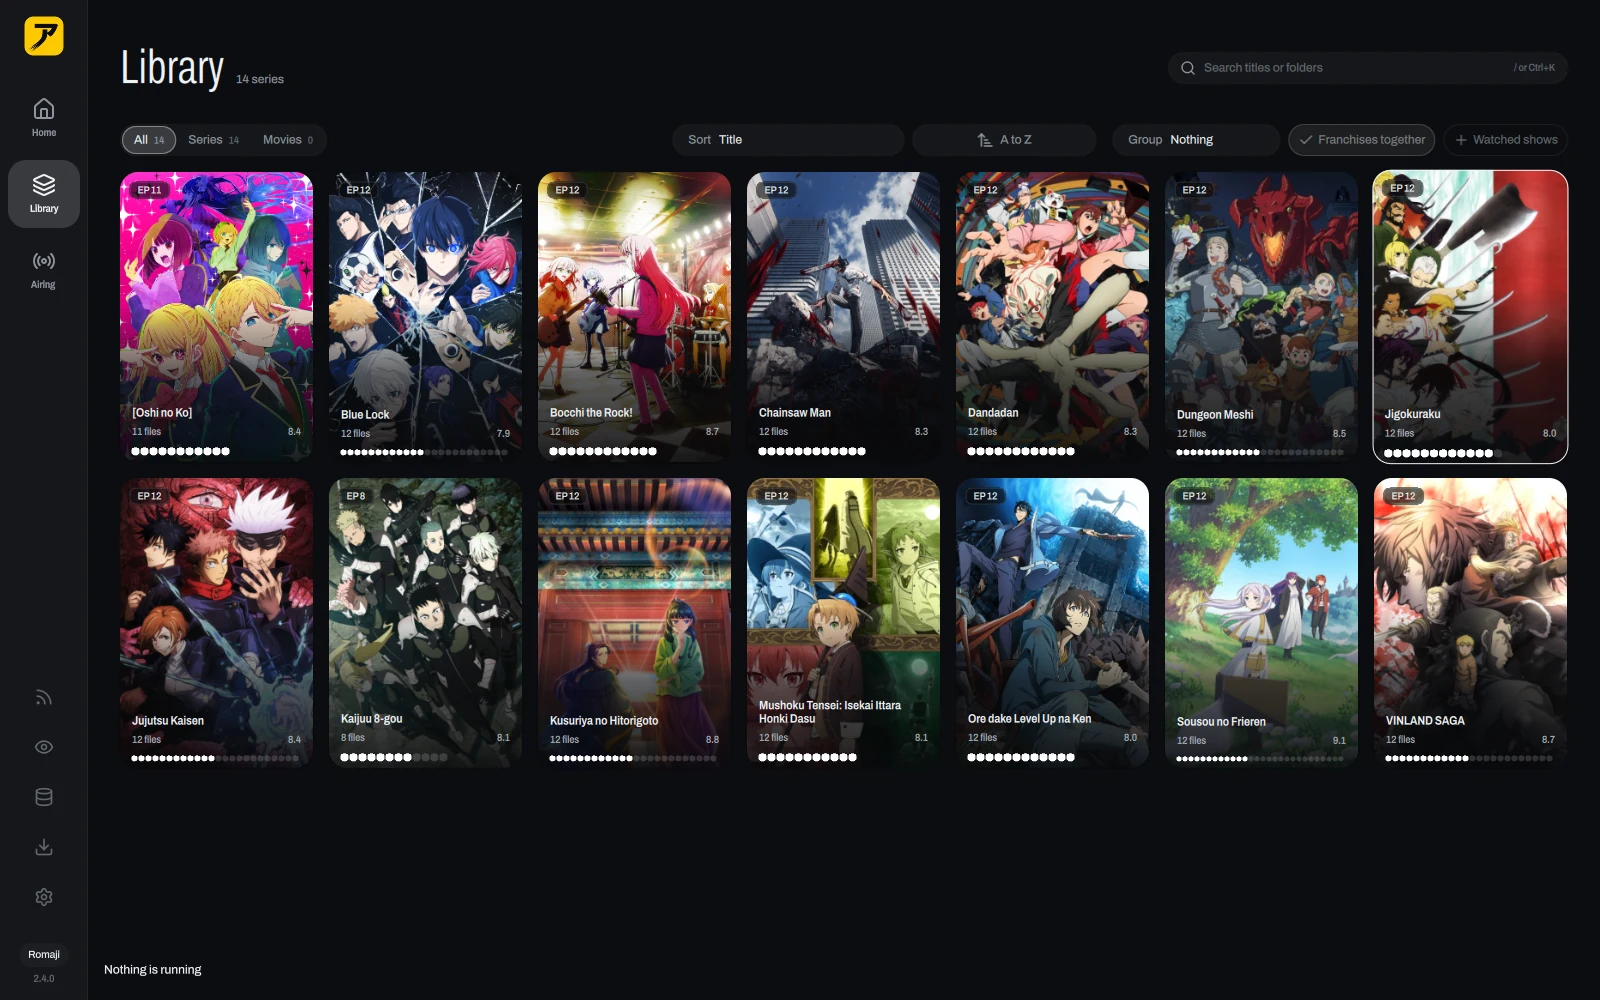
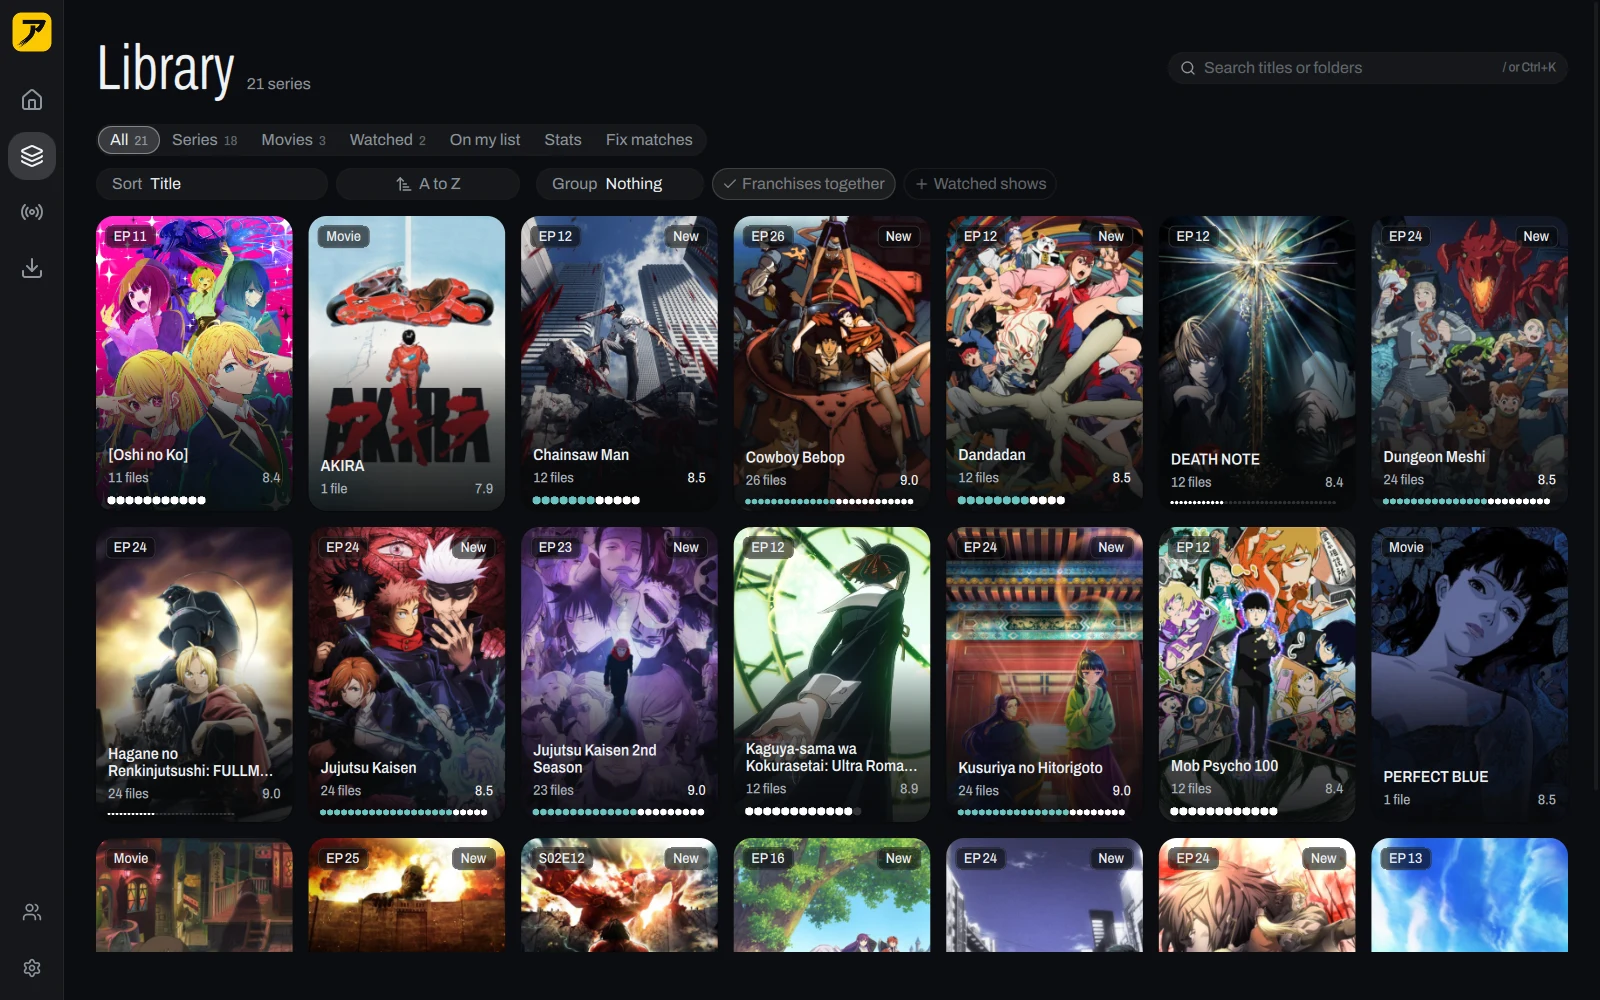
docs(readme): rewrite copy, fix wordmarks, and refresh screenshots for 2.5 (#1387)

diff --git a/README.md b/README.md
@@ -8,17 +8,17 @@
 <br>
 <br>
 
-**Your anime folder, as a library you can watch and track.**
+**A local anime library, player, and tracker for desktop and mobile.**
 
-**[anibeam.app](https://anibeam.app)**
+**[anibeam.app](https://anibeam.app)** · **[Wiki](https://anibeam.app/wiki/)** · **[What's new](https://anibeam.app/whats-new/)** · **[Watch together](https://rooms.anibeam.app/)**
 
 <br>
 
 [![stable](https://img.shields.io/github/v/release/marcusbandit/Anibeam?filter=v*&style=for-the-badge&label=stable&labelColor=0D0E11&color=FDC901)](https://github.com/marcusbandit/Anibeam/releases/latest)
 [![nightly](https://img.shields.io/github/v/release/marcusbandit/Anibeam?include_prereleases&filter=*nightly*&style=for-the-badge&label=nightly&labelColor=0D0E11&color=46E0C4)](https://github.com/marcusbandit/Anibeam/releases)
-[![android](https://img.shields.io/github/v/release/marcusbandit/Anibeam?include_prereleases&filter=android-v*&style=for-the-badge&label=android&logo=android&logoColor=8ADFB5&labelColor=0D0E11&color=8ADFB5)](https://github.com/marcusbandit/Anibeam/releases?q=android&expanded=true)
+[![android](https://img.shields.io/github/v/release/marcusbandit/Anibeam?include_prereleases&filter=android-v*&style=for-the-badge&label=phone&logo=android&logoColor=8ADFB5&labelColor=0D0E11&color=8ADFB5)](https://github.com/marcusbandit/Anibeam/releases?q=android&expanded=true)
 <br>
-[![platforms](https://img.shields.io/badge/linux_·_windows_·_macos-7CBCF5?style=for-the-badge&label=runs_on&labelColor=0D0E11)](#install)
+[![platforms](https://img.shields.io/badge/linux_·_windows_·_macos_·_android_·_ios-7CBCF5?style=for-the-badge&label=runs_on&labelColor=0D0E11)](#install)
 [![downloads](https://img.shields.io/github/downloads/marcusbandit/Anibeam/total?style=for-the-badge&labelColor=0D0E11&color=C0ABF0)](https://github.com/marcusbandit/Anibeam/releases)
 [![license](https://img.shields.io/github/license/marcusbandit/Anibeam?style=for-the-badge&labelColor=0D0E11&color=A3AEC5)](LICENSE)
 [![ko-fi](https://img.shields.io/badge/ko--fi-buy_me_a_coffee-F0A772?style=for-the-badge&logo=kofi&logoColor=F0A772&labelColor=0D0E11)](https://ko-fi.com/marcusbandit)
@@ -28,94 +28,120 @@
 <br>
 
 <div align="center">
-<img src="docs/readme/home.webp" alt="Anibeam's Home page with recent and unstarted shows as poster cards" width="100%">
+<img src="docs/readme/home.webp" alt="Anibeam Home page with a resume hero banner, Continue shelf, and Recently downloaded shows" width="100%">
 </div>
 
 <br>
 
-Point Anibeam at the folder your anime lives in. It finds every show, matches it on
-AniList, fetches the posters and airing dates, and plays the episodes right in the window.
-Watch most of an episode and it lands on your AniList or MyAnimeList. New episodes can
-download by themselves as they come out.
+Point Anibeam at your anime folder to organize, watch, and track your collection in one app.
+It matches shows on AniList (with TVmaze as a fallback), fetches posters, episode lists, and
+airing schedules, plays episodes with a built-in mpv player, and syncs your progress to
+AniList and MyAnimeList.
 
-It runs on Linux, Windows and Apple silicon Macs, with a companion app for Android. One
-install brings everything it needs: the player, the feed search and a torrent client.
+No media server, account, or telemetry required. Desktop builds for Linux, Windows, and
+Apple silicon Macs bundle the player and a built-in qBittorrent client for optional automatic
+downloads. A standalone phone app is available for Android and iPhone (sideloaded).
 
-## What's in it
+## Features
 
-- A library that builds itself. Drop files in the folder and they show up, matched, with
-  posters, synopses and what airs next.
-- A player in the window, built on mpv. It remembers where you stopped, offers the next
-  episode, and every key is one `?` away.
-- AniList and MyAnimeList sync. Progress goes both ways, so the cards show where you are.
-- Airing: this season's shows, what is out now, and when the next episode lands.
-- Downloads with subscriptions. Subscribe to a release once and every new episode arrives
-  on its own.
-- A franchise graph that shows how sequels, prequels and side stories connect.
-- Thirty-five themes, Catppuccin, Gruvbox, Tokyo Night and Nord among them.
-- Updates from inside the app, on a Stable or a Nightly track, with a What's new card.
-- A phone app that keeps its own library and can stream yours from home over Tailscale.
+- **Automatic library and matching:** Scans your folders, watches for new files, matches shows
+  on AniList and TVmaze, fetches posters, IMDb scores, and airing times, and groups franchises
+  together with a Related section on each show page.
+- **Built-in mpv player and TV casting:** Remembers resume points, skips intros and outros
+  (via AniSkip and chapter markers), supports custom subtitle styling and audio/subtitle
+  delay, and casts to Chromecast and DLNA TVs.
+- **Tracking, stats, and recommendations:** Two-way sync with AniList and MyAnimeList
+  (progress, scores, list status, dates, rewatches, and notes), or local-only tracking without
+  an account. Includes watching stats, year recap, personalized recommendations on Home, and
+  Discord Rich Presence.
+- **Watch together:** Start a synced room from any episode and invite up to 10 friends with a
+  six-letter code, a `rooms.anibeam.app` link, a QR code, or Discord. Everyone plays their own
+  copy in sync, with opening-based offset alignment and one-click episode fetching for friends
+  who don't have the file yet.
+- **Airing schedule and downloads:** Browse current and past seasons, export an iCal airing
+  schedule, search releases across signed source lists you add (RSS, Torznab/Prowlarr/Jackett,
+  and JSON), subscribe to airing shows, and use rolling downloads to keep long shows a few
+  episodes ahead while optionally cleaning up watched files.
+- **Themes and languages:** 35 built-in themes (including Catppuccin, Gruvbox, Tokyo Night,
+  and Nord), dark/light/system mode, custom accent and text size, and 13 languages.
+- **Phone app (Android and iPhone):** Runs standalone with its own library, built-in torrent
+  engine, and libmpv playback, or streams from your computer over Tailscale with automatic
+  transcoding and per-person progress.
 
 <table>
   <tr>
-    <td width="50%"><img src="docs/readme/series.webp" alt="A series page with its banner, episodes and progress"></td>
-    <td width="50%"><img src="docs/readme/library.webp" alt="The Library grid with every show as a poster"></td>
+    <td width="50%"><img src="docs/readme/series.webp" alt="A series page showing banner art, episode progress, episode list, synopsis, and characters"></td>
+    <td width="50%"><img src="docs/readme/library.webp" alt="The Library grid with poster cards, episode progress cubes, and library tabs"></td>
   </tr>
   <tr>
-    <td align="center"><sub>A series page</sub></td>
-    <td align="center"><sub>The whole library</sub></td>
+    <td align="center"><sub>Series page</sub></td>
+    <td align="center"><sub>Library</sub></td>
+  </tr>
+  <tr>
+    <td width="50%"><img src="docs/readme/airing.webp" alt="The Airing now page with episodes out today and the seasonal poster grid"></td>
+    <td width="50%"><img src="docs/readme/stats.webp" alt="The Stats page with hours watched, monthly breakdown, top genres, studios, and seasons"></td>
+  </tr>
+  <tr>
+    <td align="center"><sub>Airing now</sub></td>
+    <td align="center"><sub>Stats</sub></td>
   </tr>
 </table>
 
 ## Install
 
-Grab the newest version from **[Releases](https://github.com/marcusbandit/Anibeam/releases/latest)**.
+Download from **[anibeam.app/download](https://anibeam.app/download/)** or **[GitHub Releases](https://github.com/marcusbandit/Anibeam/releases/latest)**.
 
-| Platform | Get it | Notes |
+| Platform | Install | Notes |
 | --- | --- | --- |
-| Any Linux, one line | `curl -fsSL https://anibeam.app/install.sh \| sh` | Picks the right way for your system below: the AUR on Arch, the apt or dnf repo on Ubuntu, Debian and Fedora, the AppImage anywhere else. |
-| Arch Linux | `yay -S anibeam-bin` | The release build, installed in seconds. `yay -S anibeam` compiles it instead. Either pulls in anirss and qbittorrent-nox. |
-| Ubuntu, Debian | `sudo curl -fsSLo /etc/apt/sources.list.d/anibeam.sources https://anibeam.app/apt/anibeam.sources`<br>`sudo apt update && sudo apt install anibeam` | Ubuntu 24.04, Debian 13 and later. Updates come with `apt upgrade`. |
-| Fedora | `sudo dnf config-manager addrepo --from-repofile=https://anibeam.app/rpm/anibeam.repo`<br>`sudo dnf install anibeam` | Fedora 41 and later. Updates come with `dnf upgrade`. |
-| Any Linux | `Anibeam-<version>-x86_64.AppImage` | glibc 2.39 or newer: Ubuntu 24.04, Debian 13, Fedora 40 and later. |
-| Windows 10 and 11 | `Anibeam-<version>-windows-x64-setup.exe` | Installs for you alone, no admin prompt. A portable `.zip` sits beside it. |
-| macOS 15 and later | `brew install --cask marcusbandit/anibeam/anibeam` | Apple silicon. Or download the `.dmg` and drag it into Applications. |
-| Android | `Anibeam-<version>.apk` | From the newest `android` release. Sideload it. |
-| iPhone | Add the Anibeam source to AltStore, SideStore or LiveContainer, below | An unsigned IPA for sideloading: the app you add it to signs it. |
+| Linux & macOS (quick install) | `curl -fsSL https://anibeam.app/install.sh \| sh` | Uses AUR on Arch, apt on Ubuntu/Debian, dnf on Fedora, AppImage elsewhere, and Homebrew or `.dmg` on Apple silicon Macs. Prefix `sh` with `ANIBEAM_CHANNEL=nightly` for the latest nightly. |
+| Arch Linux | `yay -S anibeam-bin` | Prebuilt AUR package (`yay -S anibeam` compiles from source). |
+| Ubuntu / Debian | `sudo curl -fsSLo /etc/apt/sources.list.d/anibeam.sources https://anibeam.app/apt/anibeam.sources`<br>`sudo apt update && sudo apt install anibeam` | Ubuntu 24.04+, Debian 13+. Updates with `apt upgrade`. |
+| Fedora | `sudo dnf config-manager addrepo --from-repofile=https://anibeam.app/rpm/anibeam.repo`<br>`sudo dnf install anibeam` | Fedora 41+. Updates with `dnf upgrade`. |
+| Other Linux | `Anibeam-<version>-x86_64.AppImage` | Requires glibc 2.39+ (Ubuntu 24.04+, Debian 13+, Fedora 40+). Standalone `.deb` and `.rpm` packages are also attached to Releases. |
+| Windows 10 / 11 | `Anibeam-<version>-windows-x64-setup.exe` | Per-user installer (no admin prompt). A portable `.zip` is also available. |
+| macOS 15+ | `brew tap marcusbandit/anibeam https://github.com/marcusbandit/Anibeam`<br>`brew install --cask marcusbandit/anibeam/anibeam` | Apple silicon only. You can also download the `.dmg` and drag it into Applications. |
+| Android 8+ | `Anibeam-<version>.apk` | Sideload from the latest `android` release. |
+| iPhone (iOS 17+) | Add the Anibeam source in AltStore, SideStore, or LiveContainer (links below) | Unsigned IPA for sideloading; the sideloading app signs it. |
 
-**iPhone** (unsigned, for sideloading). Pick the app you sideload with and add the Anibeam source: Anibeam and Anibeam Nightly then sit in its library, can be installed side by side, and the app offers each new build as an update. Nightly is the newest build from main.
-
-[Add the Anibeam source to AltStore](https://anibeam.app/install/?to=altstore&source=1) · [SideStore](https://anibeam.app/install/?to=sidestore&source=1) · [LiveContainer](https://anibeam.app/install/?to=livecontainer&source=1)
-
-To install one build without a source, once, in [AltStore](https://anibeam.app/install/?to=altstore&channel=stable), [SideStore](https://anibeam.app/install/?to=sidestore&channel=stable) or [LiveContainer](https://anibeam.app/install/?to=livecontainer&channel=stable) (nightly: [AltStore](https://anibeam.app/install/?to=altstore&channel=nightly) · [SideStore](https://anibeam.app/install/?to=sidestore&channel=nightly) · [LiveContainer](https://anibeam.app/install/?to=livecontainer&channel=nightly)). A channel with no IPA yet says so on that page.
+**iPhone sideloading:** Add the Anibeam source to get both Anibeam and Anibeam Nightly side by side with automatic updates:
+[AltStore](https://anibeam.app/install/?to=altstore&source=1) · [SideStore](https://anibeam.app/install/?to=sidestore&source=1) · [LiveContainer](https://anibeam.app/install/?to=livecontainer&source=1)
 
 <details>
-<summary><b>Mac</b>: Homebrew needs the tap first, and macOS asks once</summary>
+<summary><b>iPhone</b>: install a single IPA without adding the source</summary>
 
 <br>
+
+- Stable: [AltStore](https://anibeam.app/install/?to=altstore&channel=stable) · [SideStore](https://anibeam.app/install/?to=sidestore&channel=stable) · [LiveContainer](https://anibeam.app/install/?to=livecontainer&channel=stable)
+- Nightly: [AltStore](https://anibeam.app/install/?to=altstore&channel=nightly) · [SideStore](https://anibeam.app/install/?to=sidestore&channel=nightly) · [LiveContainer](https://anibeam.app/install/?to=livecontainer&channel=nightly)
+
+If a channel has no IPA yet, the install page will say so.
+
+</details>
+
+<details>
+<summary><b>macOS</b>: opening an unnotarized build for the first time</summary>
+
+<br>
+
+The Mac build is not notarized, so macOS blocks the first launch. Open **System Settings > Privacy & Security**, scroll to the Anibeam notice, and click **Open Anyway**, or run:
 
 ```bash
-brew tap marcusbandit/anibeam https://github.com/marcusbandit/Anibeam
-brew install --cask marcusbandit/anibeam/anibeam
+xattr -dr com.apple.quarantine /Applications/Anibeam.app
 ```
-
-The build is not notarized, so macOS stops the first launch. Go to System Settings >
-Privacy & Security, scroll to the Anibeam line and click Open Anyway. From a terminal,
-`xattr -dr com.apple.quarantine /Applications/Anibeam.app` does the same.
 
 </details>
 
 <details>
-<summary><b>Windows</b>: SmartScreen warns about the unsigned installer</summary>
+<summary><b>Windows</b>: SmartScreen warning on the unsigned installer</summary>
 
 <br>
 
-If Windows says it protected your PC, click More info, then Run anyway.
+If Windows Defender SmartScreen prompts you, click **More info**, then **Run anyway**.
 
 </details>
 
 <details>
-<summary><b>AppImage</b>: make it executable</summary>
+<summary><b>AppImage</b>: making it executable and FUSE notes</summary>
 
 <br>
 
@@ -124,104 +150,88 @@ chmod +x ./*-x86_64.AppImage
 ./*-x86_64.AppImage
 ```
 
-If it mentions FUSE, install `libfuse2` (`libfuse2t64` on Ubuntu 24.04), or run it with
-`--appimage-extract-and-run`.
+If it complains about FUSE, install `libfuse2` (`libfuse2t64` on Ubuntu 24.04) or launch with `--appimage-extract-and-run`.
 
 </details>
 
-After that, the app updates itself. Settings > About picks Stable or Nightly.
+AppImage, Windows, and macOS builds update themselves in-app (switch between Stable and Nightly in **Settings > About**). AUR, apt, and dnf installs update through your system package manager.
 
-## First steps
+## Getting started
 
-1. **Add your library.** Click Add a folder on Home and pick your anime folder. One folder
-   per show works best: `Anime/Sousou no Frieren/Frieren - 01.mkv`.
-2. **Connect a tracker** (optional). Settings > Library > Trackers > Connect, then approve
-   Anibeam in the browser.
-3. **Watch.** Click a show, then an episode. Space plays and pauses.
-4. **Download new episodes** (optional). Anibeam ships with no sources. Add an endpoint
-   repo in Settings > Downloads > Endpoint repos, install the sources you want, then
-   search a show in Downloads and click Subscribe.
+On first launch, Anibeam walks you through a short setup (every step is optional, and you can re-run it anytime under **Settings > About > Run setup again**):
 
-A show Anibeam could not match says "Needs a match". Open it, click Find a match and pick
-the right one.
+1. **Add your library folder:** Pick the parent folder that holds your shows. One folder per show works best (`Anime/Sousou no Frieren/Frieren - 01.mkv`), and movies go in a `Movies` folder. Manage folders anytime in **Settings > Library**.
+2. **Connect a tracker (optional):** Go to **Settings > Accounts** to sign in to AniList or MyAnimeList in your browser.
+3. **Watch:** Click any show, then an episode. Press `?` in the player to see all keyboard shortcuts.
+4. **Set up downloads (optional):** Anibeam ships with no download sources. Paste a signed source list URL in **Settings > Downloads > Source lists** (or directly on the **Downloads** page) to enable its sources, then click **Get episodes** on any show or search in **Downloads** to download or subscribe.
+
+If a show isn't recognized or matched wrong, open it and click **Fixes > Match** (or review unmatched shows in **Library > Fix matches**). Misread episode files can be corrected under **Fixes > Files**.
 
 <details>
 <summary><b>More on downloads</b></summary>
 
 <br>
 
-Anibeam starts its own anirss, the tool that searches the release feeds. If a qBittorrent of
-yours already runs with its Web UI on, Anibeam uses it. If not, it sets up its own the first
-time you open Downloads, and that one keeps running after you close the app so
-subscriptions keep downloading.
+Anibeam runs its own built-in search and subscription engine and bundles a headless qBittorrent client. The built-in client starts automatically when needed and stays running after you close Anibeam so subscriptions keep downloading.
 
-Episodes land in `~/Downloads/Anime` unless you pick another folder. Add that folder to your
-library so they show up there.
+By default, the built-in client saves episodes straight into your library folder (one folder per show, movies in `Movies`), so finished downloads show up in your library automatically. You can pick a different folder in **Settings > Downloads > Save to**.
 
-To use your own qBittorrent, turn on its Web UI (Preferences > Web UI, set a username and
-password), then in Settings > Downloads > Torrent client choose Mine, fill in the address and
-login, and Save.
+To use your own qBittorrent instance (local, remote, or seedbox), enable its Web UI in qBittorrent (**Tools > Options > Web UI**), then go to **Settings > Downloads > Torrent client**, set **Which client** to **My own**, enter your address and login, and click **Save and test**. Make sure its download directory is added under **Settings > Library**.
+
+See the [Downloads](https://anibeam.app/wiki/downloads/) and [Sources](https://anibeam.app/wiki/sources/) wiki pages for details on source lists and rolling downloads.
 
 </details>
 
-## The phone app
+## Phone app and Tailscale streaming
 
-The Android app keeps a library of its own and tracks to the same AniList or MyAnimeList
-account. It can also show and play your computer's library from anywhere: turn on Settings >
-Library > Phone app > Share over Tailscale on the computer, with
-[Tailscale](https://tailscale.com) signed in on both. Only devices on your tailnet can reach
-it. [apps/phone](apps/phone/README.md) has the details.
+The phone app for Android and iPhone works standalone with its own local library, built-in torrent engine, and libmpv playback, syncing to the same AniList or MyAnimeList account.
 
-## When something is off
+It can also browse and stream your computer's library from anywhere over [Tailscale](https://tailscale.com) with automatic transcoding and per-person progress: sign in to Tailscale on both devices, then turn on **Settings > Accounts > Phone app > Share over Tailscale** on your computer. Only devices on your tailnet can connect. To keep sharing when the desktop window is closed, run `anibeam serve` (or enable the `anibeam-host` systemd user service on Linux). See [apps/phone/README.md](apps/phone/README.md) for full details.
+
+## Troubleshooting
 
 <details>
-<summary><b>Downloads says qBittorrent did not answer</b></summary>
+<summary><b>qBittorrent won't connect</b></summary>
 
 <br>
 
-Open Settings > Downloads > Torrent client and press Test; the State line says what went
-wrong. Choosing Pick for me and saving makes Anibeam look again on the next connect.
+Open **Settings > Downloads > Torrent client**, click **Test**, and check **Details** for the exact error. If you want Anibeam to manage qBittorrent automatically, switch **Which client** to **Built-in** (or **Pick for me**) and save.
 
 </details>
 
 <details>
-<summary><b>Sign-in stays on "Finish in your browser"</b></summary>
+<summary><b>Tracker sign-in stays on "Finish in your browser"</b></summary>
 
 <br>
 
-Approve Anibeam in the browser tab it opened. If that tab is gone, click Open the sign-in
-page again.
+Approve Anibeam in the browser tab it opened. If you closed that tab, click **Open the sign-in page again**.
 
 </details>
 
 <details>
-<summary><b>Where Anibeam keeps its data</b></summary>
+<summary><b>Where Anibeam stores its data</b></summary>
 
 <br>
 
-| | Data | Tracker tokens | "Use my mpv.conf" reads |
+| Platform | Data and config | Credentials | "Use my mpv.conf" reads |
 | --- | --- | --- | --- |
-| Linux | `~/.local/share/anibeam`, `~/.config/anibeam` | Secret Service keyring, or a file only you can read | `~/.config/mpv/mpv.conf` |
-| Mac | `~/Library/Application Support/anibeam` | login keychain | `~/.config/mpv/mpv.conf` |
-| Windows | `%LOCALAPPDATA%\anibeam`, `%APPDATA%\anibeam` | Credential Manager | `%APPDATA%\mpv\mpv.conf` |
+| Linux | `~/.local/share/anibeam`, `~/.config/anibeam` | Secret Service keyring (or an owner-only file) | `~/.config/mpv/mpv.conf` |
+| macOS | `~/Library/Application Support/anibeam` | macOS Keychain | `~/.config/mpv/mpv.conf` |
+| Windows | `%LOCALAPPDATA%\anibeam`, `%APPDATA%\anibeam` | Windows Credential Manager | `%APPDATA%\mpv\mpv.conf` |
+
+You can view the exact paths and export or restore a full backup in **Settings > About**.
 
 </details>
 
-Anything else, [open an issue](https://github.com/marcusbandit/Anibeam/issues/new/choose).
-A screenshot and the version from Settings > About help a lot.
+Check the [Troubleshooting wiki](https://anibeam.app/wiki/troubleshooting/) for more fixes, or use **Settings > About > Report a problem** to [open an issue](https://github.com/marcusbandit/Anibeam/issues/new/choose) with your version pre-filled.
 
 ## Build from source
 
-`./build.sh` builds the app from a checkout.
-[docs/build-from-source.md](docs/build-from-source.md) covers what it needs, running from a
-checkout and the CLI. The logos are in [assets/logo/](assets/logo/). [CONTRIBUTING.md](CONTRIBUTING.md) covers issues, pull requests and how
-releases ship.
+Run `./build.sh` from a checkout to build the desktop app. See [docs/build-from-source.md](docs/build-from-source.md) for dependencies, dev runs, and the CLI. Logos live in [assets/logo/](assets/logo/), and [CONTRIBUTING.md](CONTRIBUTING.md) covers issues, pull requests, and releases.
 
 ## Support
 
-Anibeam is free and stays free. If it made your anime nights a little nicer and you feel
-like buying me a coffee, there is a [Ko-fi](https://ko-fi.com/marcusbandit). It is entirely
-optional, and a star or a good bug report helps just as much.
+Anibeam is free and open source. If you get good use out of it and want to support development, you can buy me a coffee on [Ko-fi](https://ko-fi.com/marcusbandit). Completely optional, and starring the repo or filing good bug reports helps just as much.
 
 <div align="center">
 
@@ -231,11 +241,9 @@ optional, and a star or a good bug report helps just as much.
 
 ## Credits
 
-- [AniList](https://anilist.co) and [TVmaze](https://www.tvmaze.com) for the show data,
-  [MyAnimeList](https://myanimelist.net) for tracking.
-- [mpv](https://mpv.io) and KDE's [MpvQt](https://invent.kde.org/libraries/mpvqt) for the
-  player, [Qt](https://www.qt.io) for the window.
-- [qBittorrent](https://www.qbittorrent.org) for downloads.
+- [AniList](https://anilist.co), [TVmaze](https://www.tvmaze.com), [IMDb](https://www.imdb.com), and [AniSkip](https://aniskip.com) for metadata, ratings, and skip times; [MyAnimeList](https://myanimelist.net) for tracking.
+- [mpv](https://mpv.io) and KDE's [MpvQt](https://invent.kde.org/libraries/mpvqt) for video playback; [Qt](https://www.qt.io) (desktop) and [Slint](https://slint.dev) (mobile) for the UI.
+- [qBittorrent](https://www.qbittorrent.org) and [librqbit](https://github.com/ikatson/rqbit) for downloads.
 
 ## License
 
